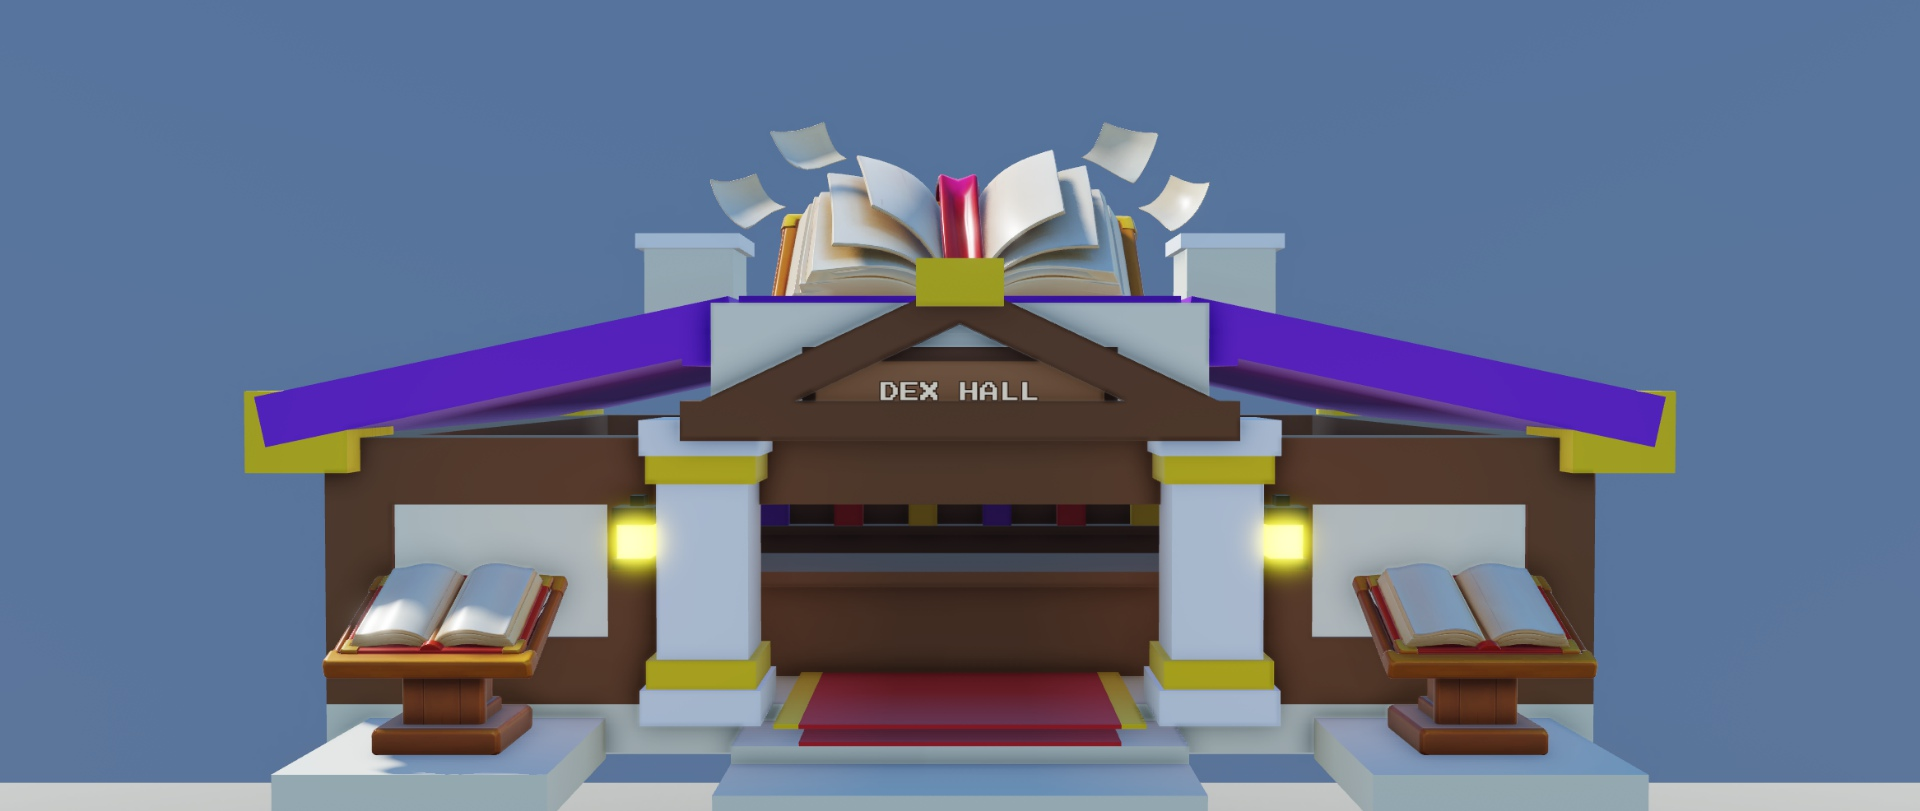
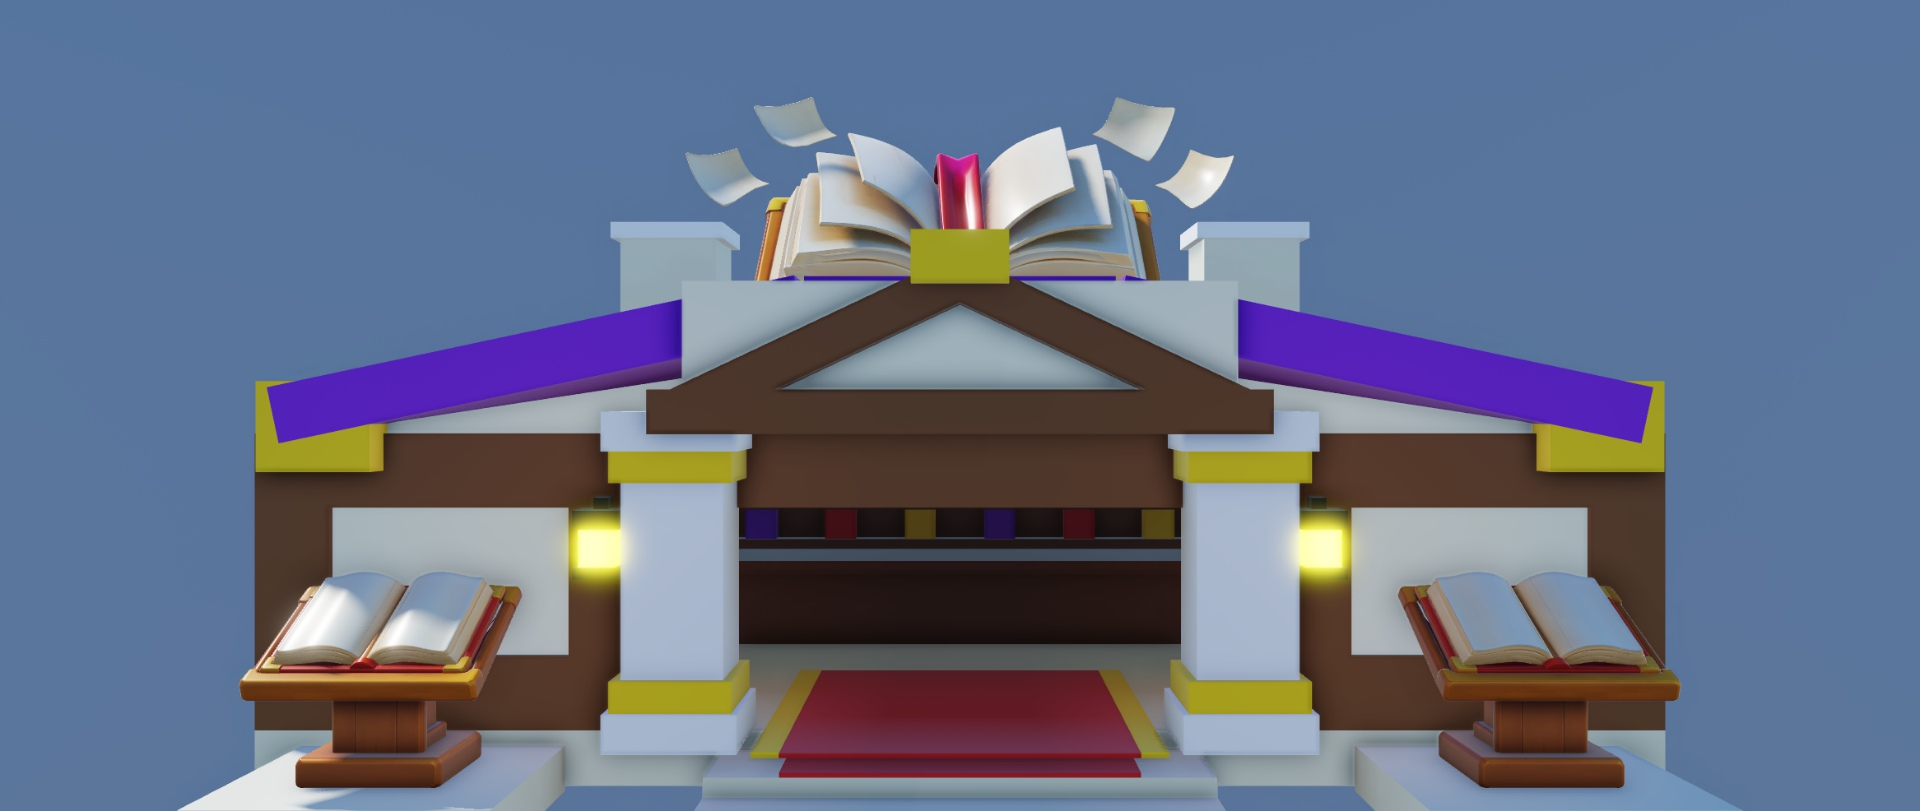
Close the Dex Hall's roof, and windows behind the books (#424)
Its ridge runs front to back, so the level wall tops left a triangle of
sky over each end -- a hole no vertical ray could find. Two wedges and a
flat per end close it, and four framed panes go in the back wall where
blank cream squares showed through the shelves.

diff --git a/docs/TRACKER.md b/docs/TRACKER.md
@@ -14,7 +14,7 @@ Last brought up to date: 2026-10-31.
 | What | What the owner does | Then Claude | Where it is |
 |---|---|---|---|
 | The lobby on its corners (owner, 2026-11-01: "every building should be either northwest, northeast, southwest, or southeast ... and then the portals are at the north") | **Walk it.** Say whether the circuit reads from the fountain -- four buildings on four corners, each one turned to face you as you stand in the middle -- and whether the walk between them is the right length (the furthest, the Blacksmith, is 105 studs from the spawn; the nearest, the Dex Hall, 60). Say too whether the two northern buildings crowd the portal terraces: there are 7 studs of lawn between them | Move any of them in `Config/Lobby.stations`; the turn follows the place, so nothing else has to change | Built: the four stations moved to the corners the owner named, every one turned to face the middle by one rule (`Config/Lobby.facing`), with their egg and crate stands turned with them (`turnedOffset`). `Lobby.spec` now measures each footprint as it is actually turned. Measured on the live server: Gear Station (-66,-24) at 70 deg, Blacksmith (+66,-24) at -70, Dex Hall (-66,+36) at 118.6, Egg Hatchery (+66,+36) at -118.6, each stand out front of its own station. 663 tests pass. **Not seen from above:** Studio renders a capture from Edit but not from a playtest, and the lobby only builds in a playtest -- building it into Edit by hand worked (2,152 parts) but the viewport would not redraw for it |
-| The Dex Hall, matched to the sheet (owner, 2026-11-01: "gable and roof", "the lighting is too strong", "i want the sign to disappear completely and the text to be above like the rest of the buildings", "look at the picture and look at the openings and the roof part") | **Look at it again.** Three things changed that I could not photograph -- Studio stopped rendering captures again -- so the doorway, the narrower ridge and the floating name are unseen: the wooden board is gone and `THE DEXES` floats over the roof as the other stations' names do, the counter moved back so the entrance reads as a doorway instead of a letterbox slot over its top, and the roof's flat ridge is 9.2 studs across where it was 16.2 | Each is one number in `Run/Lobby`'s DexHall block or `Config/Lobby.dex` | Built: 94 Roblox parts in the sheet's palette over five passes. Roof slopes were tilted about the wrong axis and the pitch dropped from 18.6 to 12 degrees so it reads long and low; the gable is timber framing a cream face and stands forward of the roof instead of behind it; the two lanterns went from 1.2 over 16 studs to 0.32 over 8, which were washing the whole front out; square columns and roof caps replaced cylinders; the two pale roof blocks were added; the carpet came off the lower step. Verified in a live server: the Dex Hall carries 0 wooden boards and 1 floating title, the other three stations still carry both. 664 tests pass |
+| The Dex Hall, matched to the sheet (owner, 2026-11-01, over six passes; last: "the roof isnt closed", "those white squares should be windows behind the books") | **Stand inside it again.** The roof is sealed and there are windows along the back behind the shelves; say whether the panes read and whether anything else shows daylight | Adjust in `Run/Lobby`'s DexHall block | Built: 115 Roblox parts. **The roof is closed.** Its ridge runs front to back, so it rose toward the middle while the wall tops stayed level, leaving a triangle of open sky over each end wall -- invisible to a ray straight up, since the roof is overhead the whole way, and found by firing rays sideways and up from inside. Each end is filled by two wedges and a flat; a stepped fill was tried first and showed from outside as a cream staircase climbing to the gable. Now 0 of 484 rays fired from inside find a way out. **Windows:** four panes with timber frames and bars along the back wall behind the shelves, where blank cream squares showed through the shelving. Earlier passes: the roof slopes were tilted about the wrong axis and the pitch dropped 18.6 to 12 degrees; the gable became timber and moved forward of the roof; the lanterns went 1.2/16 studs to 0.32/8; square columns and caps; the two pale roof blocks; the carpet off the lower step; the wooden board replaced by a floating name. 664 tests pass |
 | The Dex Hall, to the owner's sheet (owner, 2026-11-01: "what we really need to focus on today is getting the lobby completed", then the front and back sheet and "i made the book that goes on the roof and also the book stand that is on the ground in front of it") | **Look at it and compare it with your sheet** -- I could not. Studio would not render the lobby into a capture from here (the class select holds the client before the lobby is reached, and a scripted camera is overridden every frame), so it is built to the sheet by construction and measurement, never seen. Check in particular: the roof book's **facing**, which is a guess (`dex.turn`, half a turn, on the same assumption every Tripo import here has met); its size on the ridge; whether the six pages read as adrift or as clutter; and whether the lecterns sit where the sheet has them | Fix whatever is off from `Config/Lobby.dex` -- every number is there, so the roof book's width, the pages' spread, the lectern places and the colours are each one line | Built: `Config/Lobby.dex` and the Dex Hall block in `Run/Lobby` -- the roof book astride the ridge, the red ribbon and gold lozenge down the gable, six pages adrift, a lectern either side of the steps under the owner's stand book, a lit lantern on each front wall, the red carpet, and a counter and two shelves inside. The roof colour went from a muted lilac to the sheet's violet and the panels from near-white to warm cream. The two books are the only imported meshes in the lobby: `MeshPart.MeshId` cannot be assigned, so they load through `Util/MeshTemplates` and are cloned. Built in a live Studio server: 36 kinds of part, both books real MeshParts carrying their meshes and textures. 660 tests pass |
 | Drowned Village pet attacks (owner, 2026-11-01: "we also need the enemy and pet attacks to be created") | Take each of the five into a run (O, sandbox, pick it) and say whether it reads and whether the numbers are right. Four of them are **not yet felt in a playtest**, and three of them do no damage at all, which is the thing to judge: the **Slate Turtle** cuts 20% off every hit for 3 s in 14 (is a fifth enough to notice?), the **Buoy Puffer** does nothing until you are hurt then hits for 165, the **Inkpot** stops a ranged enemy firing for 3 s by capping its sight at 6 studs, the **Tide Wilf** charges a chaser 45 a 3 studs up to four times, and the **Abyss Jelly** adds no damage whatever -- it splits yours over three. Also: **none of the five plays an animation**, because they came out of Tripo as single static meshes with no clips. Say whether they need rigged models, or whether a pose and an effect piece is enough | Retune `Config/PetCombat`'s Drowned block from what the runs say; give them `Config/PetAttacks` pieces and `Config/PetSounds` cues once their models can carry a clip (and make the area's own `FxPet` art, rather than standing on the glade's as Thornwood does) | Built: all five, each rule in its own pure module -- `Util/Shelter`, `Util/PetWake`, `Util/DeepAccord` -- plus `EnemyManager.blind`, `EnemyManager.wake`, `EnemyManager.accord`, the shelter in `RunSession.applyDamage`, and the puffer armed off `session.lastHurtAt`. `EnemyManager.damage` now takes the player whose blow it is, which is what a canopy shares and a pet's blow does not. Hatchery blurbs for all five, from the same numbers. 657 tests pass. Measured on the live server: a 300 blow under a canopy of three landed **exactly 100.000 on each, 300.000 in all**, and an unattributed blow of 300 took the whole 300 off one enemy and nothing off the others |
 | Drowned Village enemies, the arena, and the pets' attacks (owner, 2026-11-01: "the enemies", then "we also need the enemy and pet attacks to be created. and the arena") | **Three things, all of which need you first.** (1) **The arena**: nothing exists for it but the concept sheet `assets/concepts/blocky/arenas/area03_drowned_village.jpg` -- no GLB, no kit, no imports. Make the Drowned Village arena in Claude Design (or Tripo) and send it, as the Mossy Glade and Thornwood kits were. Without it the area has no rooms, so no enemy can stand anywhere. (2) **Three enemy models**: the Drowned Zombie, Ditch Eel and Bell Ringer. All three already have their NEW ENEMY! cards written and their pictures uploaded (`Config/NewEnemies`); only the models are missing. (3) **Spawn the Hollow Fisherman** (`Remotes.DebugSpawnEnemy:FireServer("HollowFisherman")`) and say whether it faces you -- its turn is **unconfirmed**, set to -Z to match the Tripo pets -- and whether the hook reads: one slow cast down a drawn line, and a catch that drags you 6 studs back toward it | Build the arena kit, its rooms and stages from the import (`docs/PIPELINES.md` §4), then the three enemies; flip one field if the fisherman faces the wrong way, and retune its numbers. The **pet attacks** are five new server behaviours and their own piece of work: Roof Huddle (a 20% damage cut while it tucks in), Payback Puff (a retaliation on the owner being hit), Ink Blink (an accuracy blind), Wake Chase (hits as a marked enemy moves) and Deep Accord (damage split across linked enemies), all specified in `docs/PETS-DROWNED.md` | Built: the **Hollow Fisherman** whole -- its `EnemyDesigns` body from the Tripo import, its archetype in the new `Balance.Benched`, and its hook, which is `EnemyShot.reel`: a locked, drawn line whose hit drags the player back along it (`Combat/ProjectileSystem`, `EnemyManager.shovePlayer`), so a client walks the pull and cover stops it. It is in no roster because the area has no rooms; `DebugSpawnEnemy` reaches it. Measured in Studio: the body builds as a real textured MeshPart, 0.001 studs inside its hitbox across, flush on the floor. 640 tests pass. **The reel is not yet felt in a playtest** |
